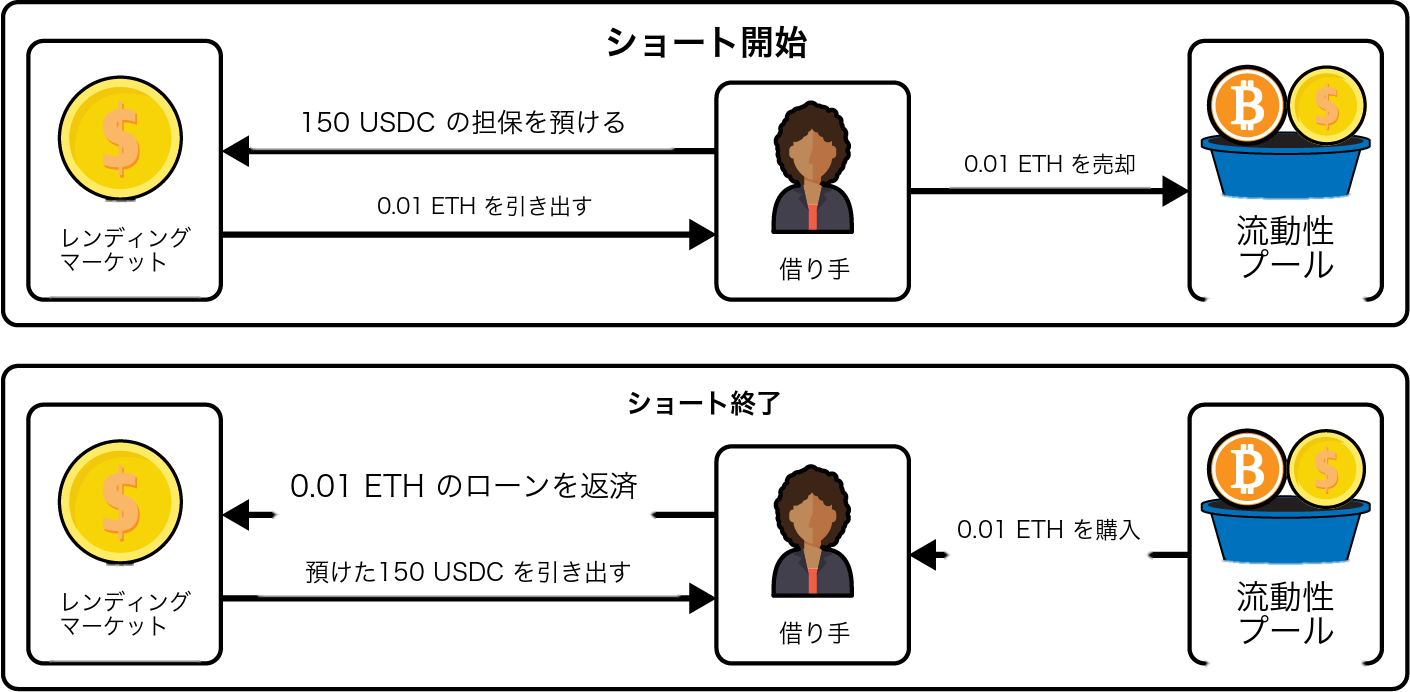
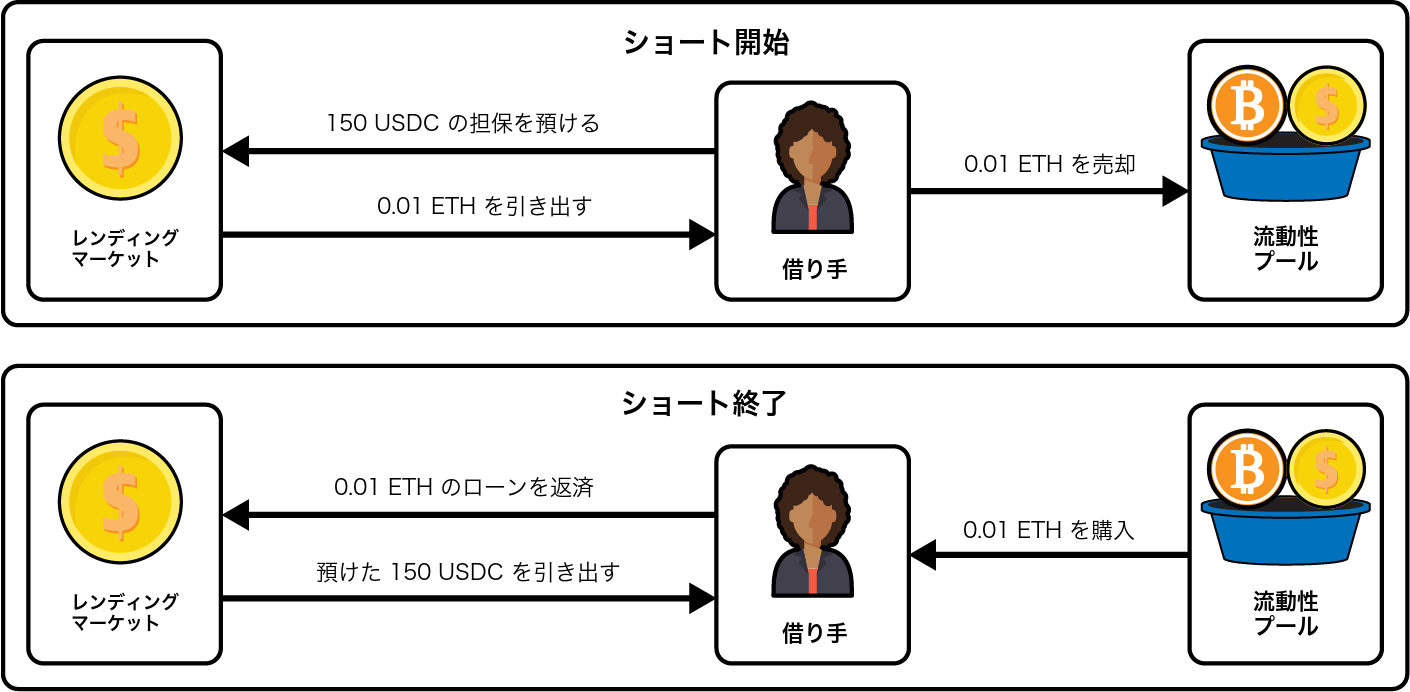
chore(images): 残り 17 枚を v2 スクリプトで再生成
scripts/translate_image.py に extra_text_regions と extra_mask_boxes
の無条件マスク機能を追加し、ch1/ch3/ch11/ch12/ch13 の全 18 枚を
リファレンス品質で再生成。

各画像の翻訳マップは scripts/maps/maet_*.json として保存
（再現性のため）。

主な改善:
- 矢印・枠線が灰色化／消失していたものをすべて修復
- 番号付きラベル (1. 2. 3. ...) のフォントサイズを統一
- ch12/maet_1202 のタイトル「分散型アプリケーション」など
  OCR が拾えなかったテキストも extra_text_regions で描画

diff --git a/scripts/translate_image.py b/scripts/translate_image.py
@@ -175,6 +175,9 @@ def translate_image(image_path: str, translation_map: dict, preview: bool = Fals
 
     # マップに __extra_mask_boxes__ があれば OCR が拾えなかった領域を強制マスク
     extra_mask_boxes = translation_map.pop("__extra_mask_boxes__", [])
+    # __extra_text_regions__ は OCR を経由せず座標指定で翻訳テキストを描画
+    # 形式: [{"box": [x1,y1,x2,y2], "ja": "テキスト", "bold": true, "font_size": 24}, ...]
+    extra_text_regions = translation_map.pop("__extra_text_regions__", [])
 
     regions = []
     preserve_boxes = []
@@ -239,17 +242,29 @@ def translate_image(image_path: str, translation_map: dict, preview: bool = Fals
             })
             print(f"       (merged '{gname}') → '{ja}'")
 
+    # __extra_text_regions__ をそのまま region に追加（OCR 経由しない描画）
+    for er in extra_text_regions:
+        regions.append({
+            "box": er["box"],
+            "original": "<extra>",
+            "translation": er["ja"],
+            "bold": er.get("bold", False),
+            "size_group": er.get("size_group"),
+            "font_size": er.get("font_size"),
+        })
+        print(f"       (extra) → '{er['ja']}'")
+
     if not regions and not preserve_boxes:
         print("No regions to translate.")
         return
 
     print(f"[2/4] Mask (connected-component filter) for {len(regions)} regions")
-    mask_regions = list(regions)
+    mask = build_mask(image_path, regions)
     if extra_mask_boxes:
         for box in extra_mask_boxes:
-            mask_regions.append({"box": box})
-        print(f"       + {len(extra_mask_boxes)} extra mask box(es)")
-    mask = build_mask(image_path, mask_regions)
+            x1, y1, x2, y2 = box
+            mask[y1:y2, x1:x2] = 255  # 連結成分フィルター無視で全領域マスク
+        print(f"       + {len(extra_mask_boxes)} extra mask box(es) [unconditional]")
     for box in preserve_boxes:
         x1, y1, x2, y2 = box
         mask[y1:y2, x1:x2] = 0
